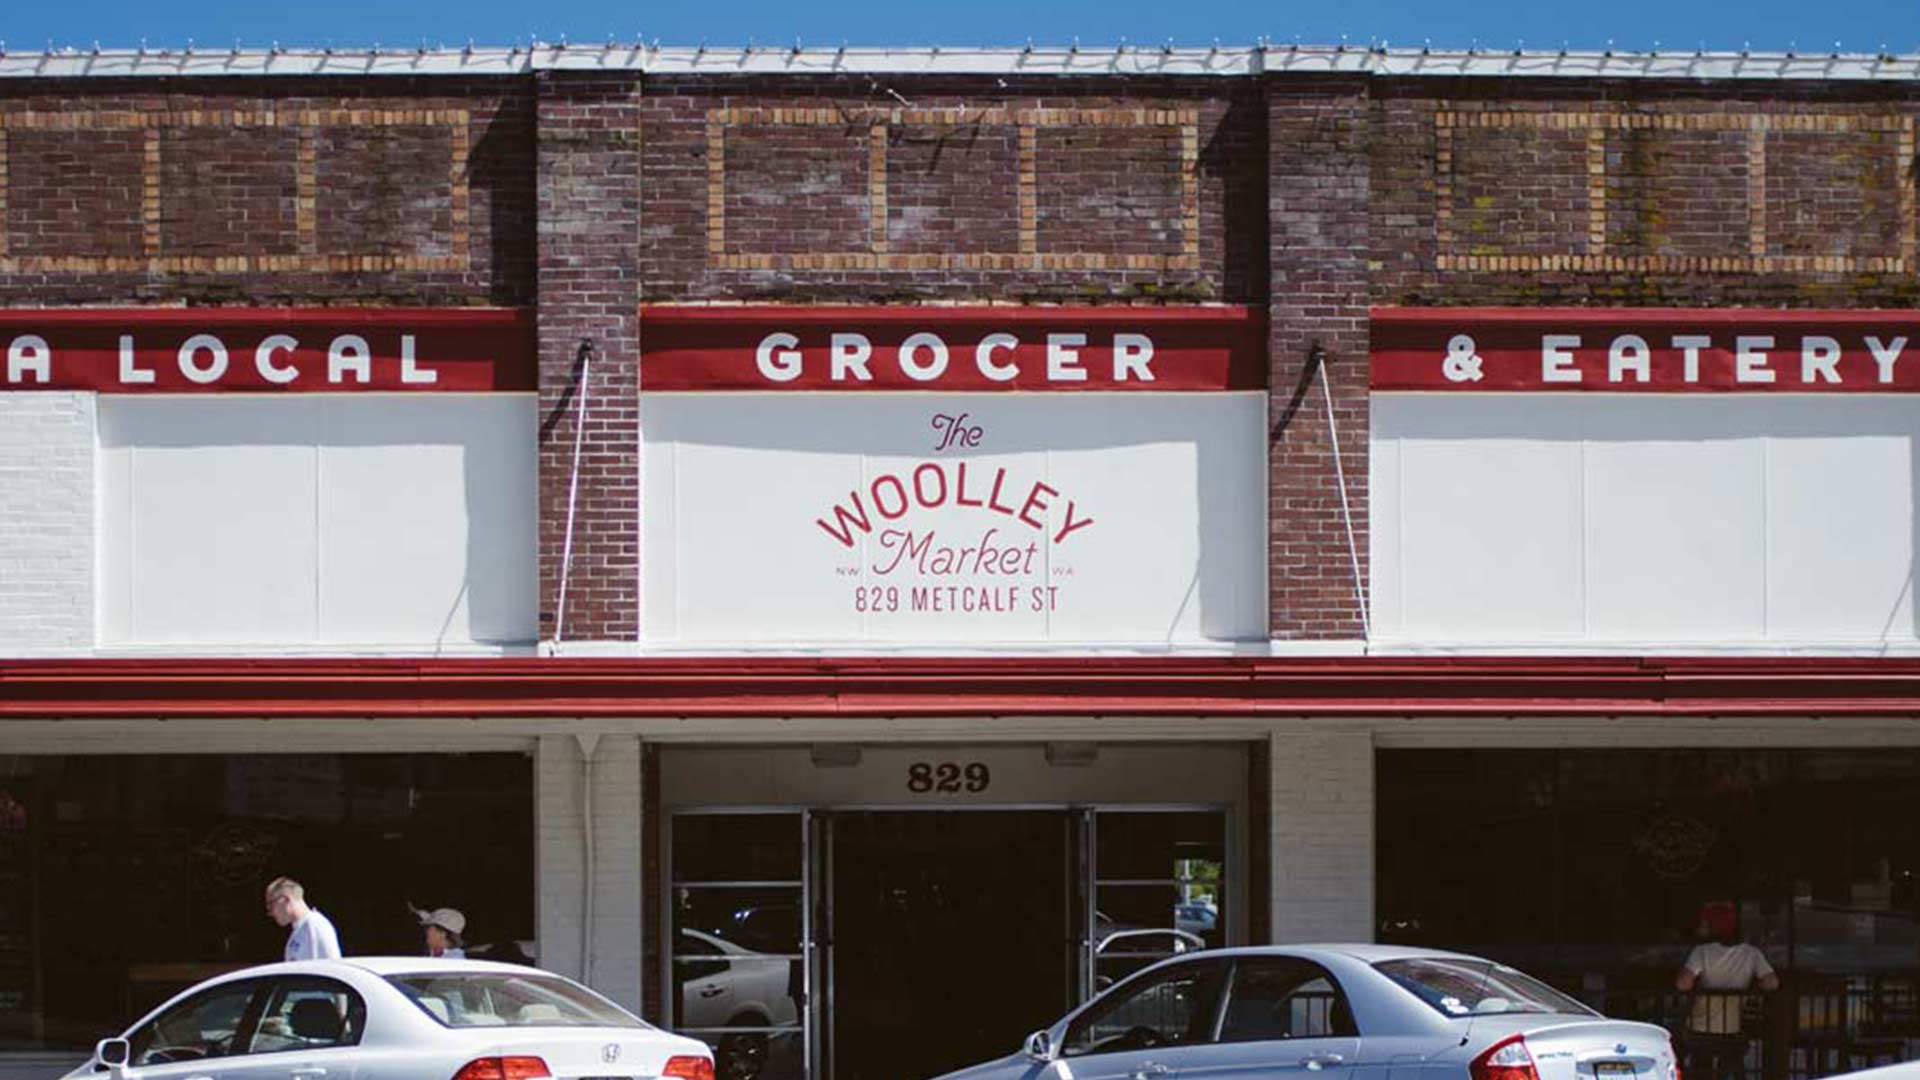
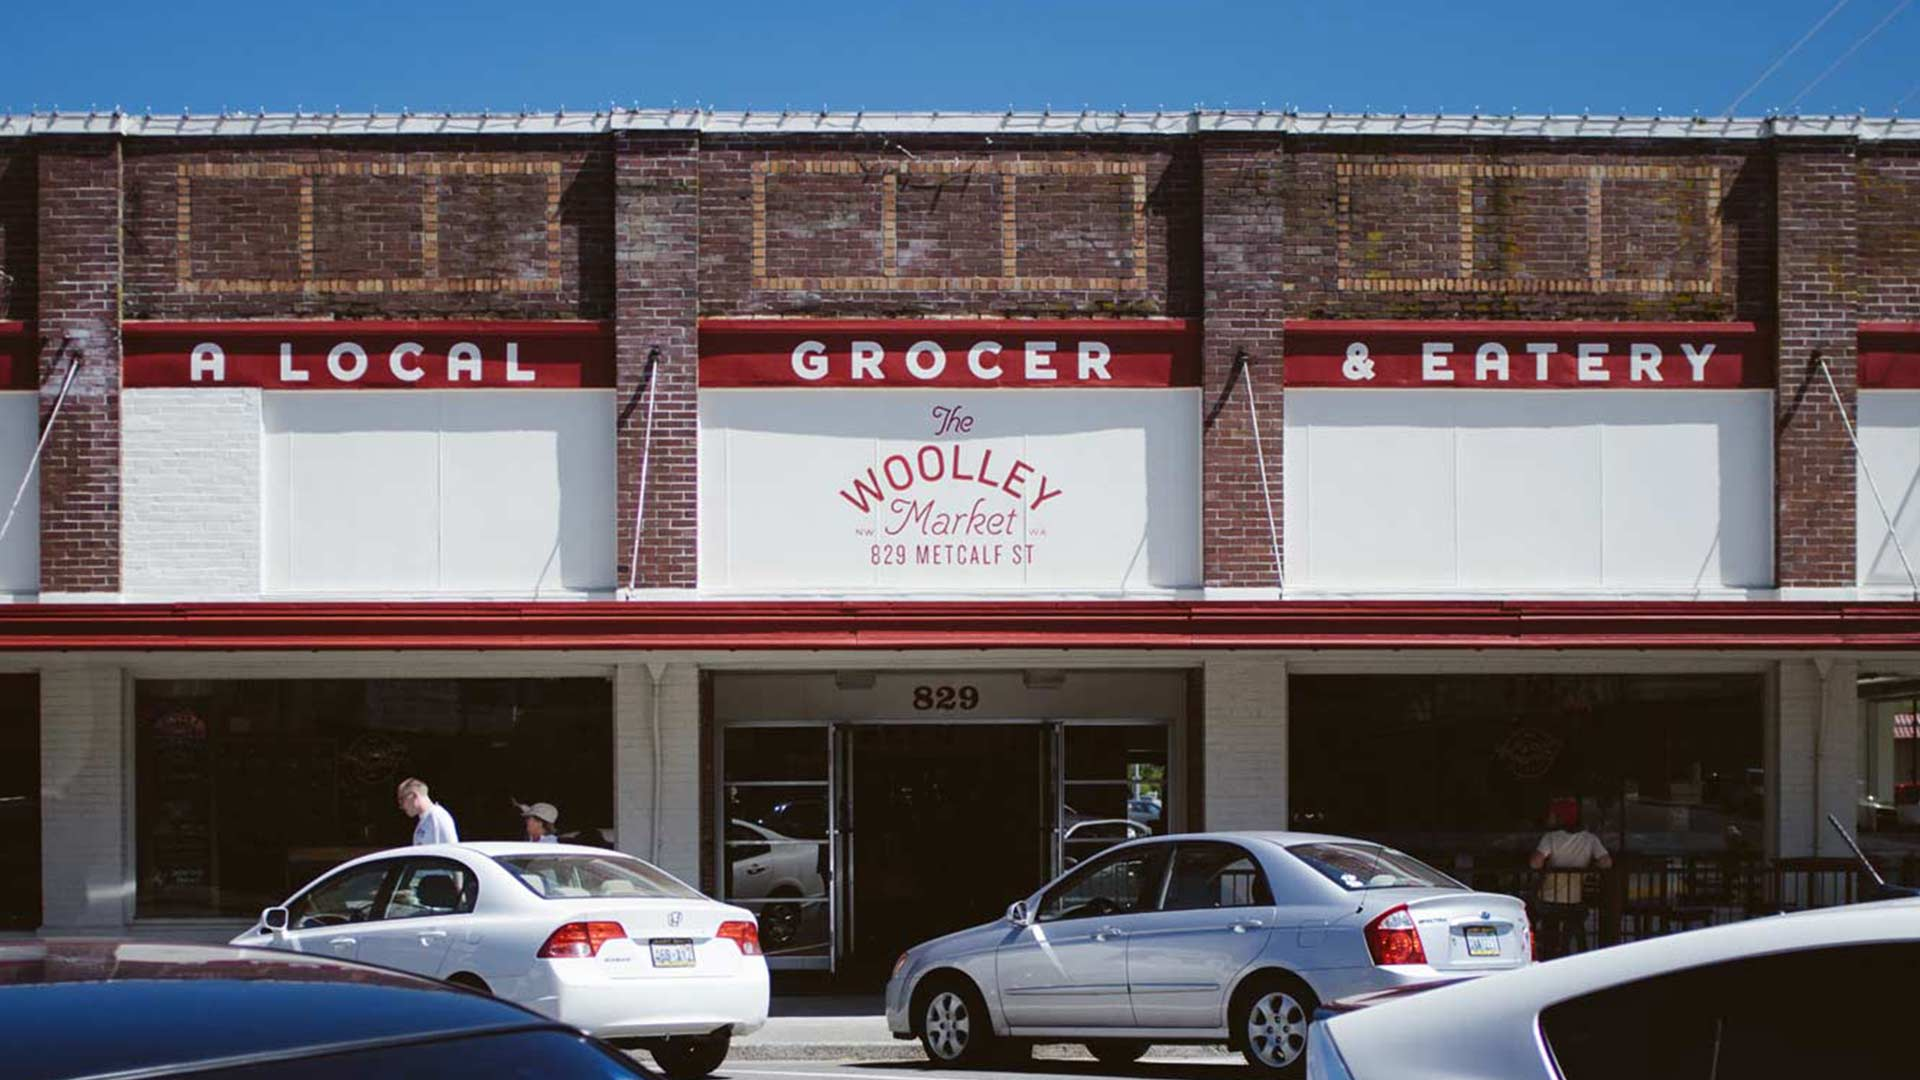
New Images for Woolley & Thrillderness

diff --git a/index.html b/index.html
@@ -33,13 +33,16 @@ layout: home
 
       <div class="pad-all-m b-b-1sw">
         <div class="work-carousel">
-          <div> <img data-lazy="img/work/wm/woolleygrid.jpg" alt="Clockwise from top left, window painting, coffee cups, a 1919 Model T farm truck, gift cards, painting cold beer on the exterior, and a fisherman environmental sign inspired by a 1920's skagit valley photo."> </div>
-          <!-- <div> <img data-lazy="img/work/wm/woolleylogo.jpg" alt="The Woolley Market Double Handle Saw Logo"> </div> -->
-          <div> <img data-lazy="img/work/wm/woolleyrear.jpg" alt="The Rear entrance to the Woolley Market, paint on brick."> </div>
+          <!-- <div> <img data-lazy="img/work/wm/woolleygrid.jpg" alt="Clockwise from top left, window painting, coffee cups, a 1919 Model T farm truck, gift cards, painting cold beer on the exterior, and a fisherman environmental sign inspired by a 1920's skagit valley photo."> </div> -->
+          <div> <img data-lazy="img/work/wm/woolleyentrance.jpg" alt="View of the market from Main Street, in Sedro-Woolley Washington."> </div>
+          <div> <img data-lazy="img/work/wm/woolleyinterior.jpg" alt="Products and painted interior signs."> </div>
           <div> <img data-lazy="img/work/wm/woolleyneon.jpg" alt="The Woolley Market Logo in Neon mounted to a 40-inch saw blade salvaged from a local mill."> </div>
-          <div> <img data-lazy="img/work/wm/woolleycorner.jpg" alt="View of the market from Main and State Streets, in Sedro-Woolley Washington. Manufactured marquee sign and painted exterior signs."> </div>
-          <div> <img data-lazy="img/work/wm/woolleybutcher.jpg" alt="Butcher paper for the deli."> </div>
+
+          <div> <img data-lazy="img/work/wm/woolleyexterior.jpg" alt="Manufactured marquee sign and painted exterior signs."> </div>
+          <div> <img data-lazy="img/work/wm/woolleylogo.jpg" alt="The Woolley Market Brand Logos"> </div>
           <div> <img data-lazy="img/work/wm/woolleymural.jpg" alt="Gateway to the North Cascades has long been the town motto for Sedro Woolley, so we painted it into a mural next to an arial photo showing the town and it's relationship to Mt. Baker."> </div>
+
+
         </div>
         <div class="info-box">
           <p class="mar-all-0"> Client: <a href="http://woolleymarket.com" target="_blank"> The Woolley Market </a> </p>
@@ -50,13 +53,14 @@ layout: home
       <div class="pad-all-m b-b-1sw">
         <div class="work-carousel">
           <div> <img data-lazy="img/work/thrill/thrillderness.jpg" alt="Thrillderness logo set over the opening of a momentarily dry Yosemite Falls."> </div>
-          <div> <img data-lazy="img/work/thrill/thrillderness_3.jpg" alt="Screenshots of Thrillderness website presented in a large desktop-like browser and phone browser."> </div>
+          <div> <img data-lazy="img/work/thrill/thrillderness_website.jpg" alt="Screenshots of Thrillderness website presented in a large desktop-like browser and phone browser."> </div>
+          <div> <img data-lazy="img/work/thrill/thrillderness_instagram.jpg" alt="Thrillderness Instagram Grid of blending images and screenshot of instagram account in iphone app."> </div>
           <div> <img data-lazy="img/work/thrill/thrillderness_5.jpg" alt="Mountain Bikers on ridge wearing Thrillderness apparel."> </div>
-          <div> <img data-lazy="img/work/thrill/thrillderness_4.jpg" alt="Clockwise from top left, Thrillderness Shaka Hand Logo with tagline Go Far and Shred Gnar, black and white hike photograph, Boy scout style handshake logo with text reading the handshake, standing atop clouds at Whistler summit, illustration of compasses, and soaking in hot springs. "> </div>
+          <!-- <div> <img data-lazy="img/work/thrill/thrillderness_4.jpg" alt="Clockwise from top left, Thrillderness Shaka Hand Logo with tagline Go Far and Shred Gnar, black and white hike photograph, Boy scout style handshake logo with text reading the handshake, standing atop clouds at Whistler summit, illustration of compasses, and soaking in hot springs. "> </div> -->
         </div>
         <div class="info-box">
           <p class="mar-all-0"> Project: <a href="http://thrillderness.co" target="_blank">Thrillderness </a> </p>
-          <span class="uppercase"> <small> Branding | UX | UI | Web Development | Experiential Design | Apparel </small> </span>
+          <span class="uppercase"> <small> Branding | UX | UI | Web Development | Experiential Design </small> </span>
         </div>
       </div>
 

diff --git a/_includes/head.html b/_includes/head.html
@@ -4,6 +4,23 @@
     <meta http-equiv="X-UA-Compatible" content="IE=edge">
     <title>{% if page.title %}{{ page.title }}{% else %}{{ site.title }}{% endif %}</title>
     <meta name="description" content="{{ site.description }}">
+
+    <link rel="shortcut icon" id="favicon" href="favicon.png">
+    <meta name="author" content="MORF">
+    <meta property="og:locale" content="en_US">
+    <meta property="og:type" content="website">
+    <meta property="og:title" content="{{ site.description }}">
+    <meta property="og:description" content="{{ site.description }}">
+    <meta property="og:url" content="http://morf.studio/" >
+    <meta property="og:site_name" content="MORF">
+    <meta property="og:image" content="{{"/img/morf-logo15fps.gif" | prepend:site.baseurl }}">
+    <meta name="twitter:card" content="summary_large_image">
+    <meta name="twitter:site" content="@morfstudio">
+    <meta name="twitter:creator" content="@morfstudio">
+    <meta name="twitter:title" content="{{ site.description }}">
+    <meta name="twitter:description" content="{{ site.description }}">
+    <meta name="twitter:image" content="{{"/img/morf-logo15fps.gif" | prepend:site.baseurl }}">
+
     <link rel="canonical" href="{{ page.url | replace:'index.html','' | prepend: site.baseurl | prepend: site.url }}">
     <link rel="stylesheet" href="{{ "/css/normalize.css" | prepend: site.baseurl }}">
     <link href='https://fonts.googleapis.com/css?family=Karla:400,700,400italic,700italic' rel='stylesheet' type='text/css'>
